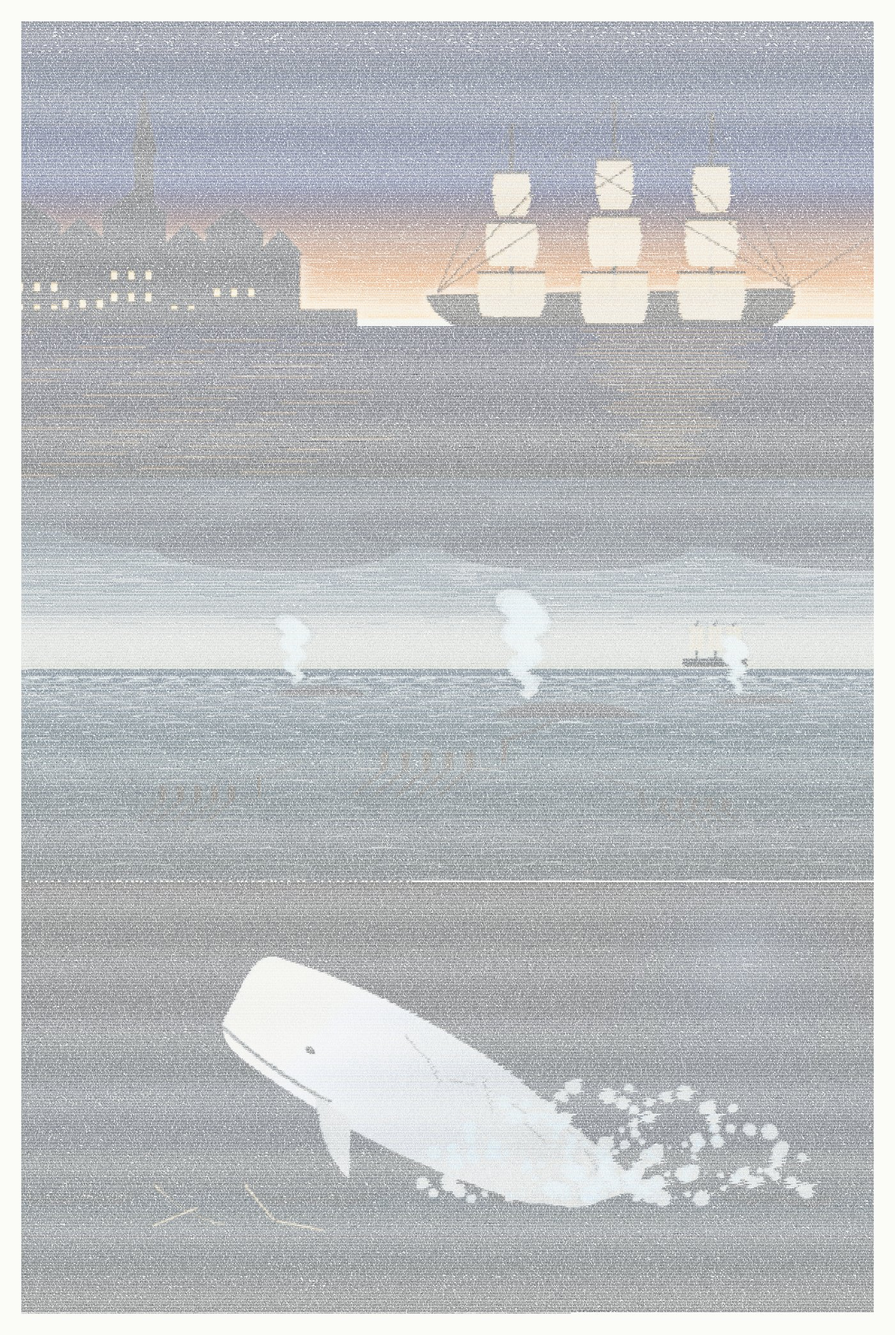
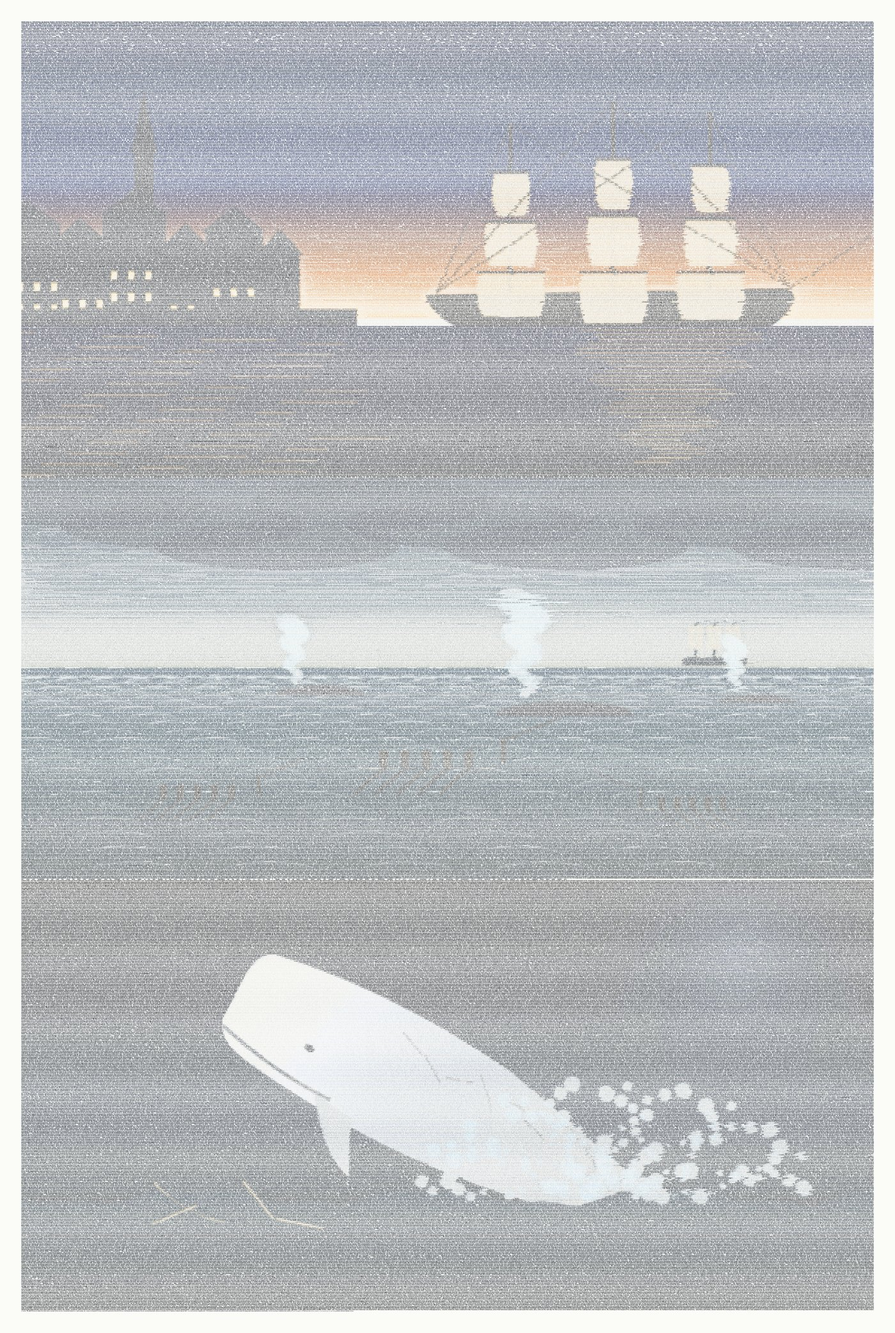
Moby-Dick demonstrator rebuilt with the layout fixes
Poster set again with tone taken at justified positions, printed as one
2000 x 2979 mm page from 12 checked strips; 7/7 tests pass. The proof now
explains Poppler's losses correctly (its tiny-chars limit) and marks the
manual vision sample as taken from an earlier rendering.

diff --git a/demo/moby-dick/proof.md b/demo/moby-dick/proof.md
@@ -11,7 +11,7 @@ Generated 2026-10-17 by `node demo/moby-dick/build.mjs`. Every number here is co
 
 ## Poster
 
-- 2 × 3 m, 886 lines, 1,214,967 characters (whitespace normalised)
+- 2 × 3 m, 885 lines, 1,214,967 characters (whitespace normalised)
 - Type size 3.26 mm (Roboto Flex, weights 100–1000, widths 75–125 %), colours from the motifs, tone fidelity 0.90
 
 | Panel | Text | Motif | Height |
@@ -34,15 +34,15 @@ Generated 2026-10-17 by `node demo/moby-dick/build.mjs`. Every number here is co
 
[1 lines of base64/hex data omitted]
 T2 reads the print PDF with MuPDF and compares every visible character. The PDF text layer does not carry the two invisible right-to-left marks that surround the one Hebrew word in the etymology; that is the only difference.
-Poppler's `pdftotext -raw`, a common alternative, loses letters in light passages of this PDF (Chrome stores variable fonts as Type 3 fonts): 54.5 % of its words are words of the source. The text is complete in the file, as MuPDF shows; extraction tools differ.
+Poppler's `pdftotext -raw`, a common alternative, returns fewer letters, mostly in light passages: 54.6 % of its words are words of the source. Poppler keeps only the first 50 000 characters smaller than 3 × 3 units per page (its "tiny chars" limit, measured in docs/ai-readability.md); light passages consist of small glyphs. The text is complete in the file, as MuPDF shows.
 
 T7 uses the question set in `ai-tests.json`: questions about the book whose answers must be grounded in the extracted text, the precondition for any AI system to answer them from the artwork.
 
 ## Reading the picture alone
 
-Classic OCR (Tesseract, English, single-line mode) on 16 lines spread over the whole poster, each cut at word boundaries into 8 segments with their own ground truth, rendered at 2 px per mm (a photo of about 4 000 × 6 000 px per square metre): **73.4 %** of 3,943 words recognised in order. The poster mixes weights 200–1000, widths 75–125 % and sizes 60–100 % with light ink colours in bright areas; that is hard for an engine that only knows letter shapes.
+Classic OCR (Tesseract, English, single-line mode) on 16 lines spread over the whole poster, each cut at word boundaries into 8 segments with their own ground truth, rendered at 2 px per mm (a photo of about 4 000 × 6 000 px per square metre): **72.7 %** of 3,904 words recognised in order. The poster mixes weights 200–1000, widths 75–125 % and sizes 60–100 % with light ink colours in bright areas; that is hard for an engine that only knows letter shapes.
 
-A vision-language model reads the same images far better. Claude (Anthropic, Opus 5.5), reading the segment images directly, 3 of the segments where Tesseract did worst (146 words): **100.0 %** read correctly, against 4.8 % for Tesseract on the same segments. Method: The three segments with the lowest Tesseract scores were stacked into one image without looking at their ground truth; the transcription was written down before comparing. Cut-off fragments of neighbouring words at the left edge were left out; a cut-off letter at the right edge was transcribed as seen. The transcriptions are in `vision-sample.json`; this is a small manual sample.
+A vision-language model reads such images far better. In a manual sample taken from an earlier rendering of the poster (before the layout fix of 17 October 2026; segments, ground truth and Tesseract result are stored together in `vision-sample.json`, so the comparison stays reproducible), Claude (Anthropic, Opus 5.5), reading the segment images directly, 3 of the segments where Tesseract did worst (146 words): **100.0 %** read correctly, against 4.8 % for Tesseract on the same segments. Method: The three segments with the lowest Tesseract scores were stacked into one image without looking at their ground truth; the transcription was written down before comparing. Cut-off fragments of neighbouring words at the left edge were left out; a cut-off letter at the right edge was transcribed as seen. The transcriptions are in `vision-sample.json`; this is a small manual sample.
 
 This channel matters only when nothing but a photo of the poster travels; the files themselves carry the text exactly (T1, T2).
 

diff --git a/CHANGELOG.md b/CHANGELOG.md
@@ -22,7 +22,7 @@ First public version.
 - Brand assets: wordmark and social preview (`npm run assets`), Open Graph tags, press kit.
 - Panels: `typesetSections` sets one continuous text across several images (one picture per part) at a single type size.
 - Demonstrator: the complete *Moby-Dick* as a 2 × 3 m poster in three panels, with SVG master, print PDF as a single page, zoom viewer with "text at this spot", and a generated proof report (`demo/moby-dick/`).
-- Print-ready PDFs at physical size: `--print-width <mm>` on the CLI, always one page (up to 5.08 m per side). Large sheets are printed in strips and assembled onto one page with MuPDF (`cli/pdf-assemble.js`); the Moby-Dick poster is a single 2000 × 2981 mm page.
+- Print-ready PDFs at physical size: `--print-width <mm>` on the CLI, always one page (up to 5.08 m per side). Large sheets are printed in strips and assembled onto one page with MuPDF (`cli/pdf-assemble.js`); the Moby-Dick poster is a single 2000 × 2979 mm page.
 - Line heights are multiples of 1/64 px, so browsers place every line exactly where the layout puts it.
 - One-pagers (`cli/onepage.mjs`): a whole PDF or text file on one page, its title formed by the text; ten examples in `examples/` (laws of CH, DE, US and the EU, the UDHR, PEP 8, AI agent instructions), each read back and checked.
 - Fix: glyphs are grapheme clusters, not code points. Letters with combining accents, emoji sequences and syllables of complex scripts stay one unit; before, separate marks could be dropped from PDF text layers (found with PEP 8's "Zalgo" example).
